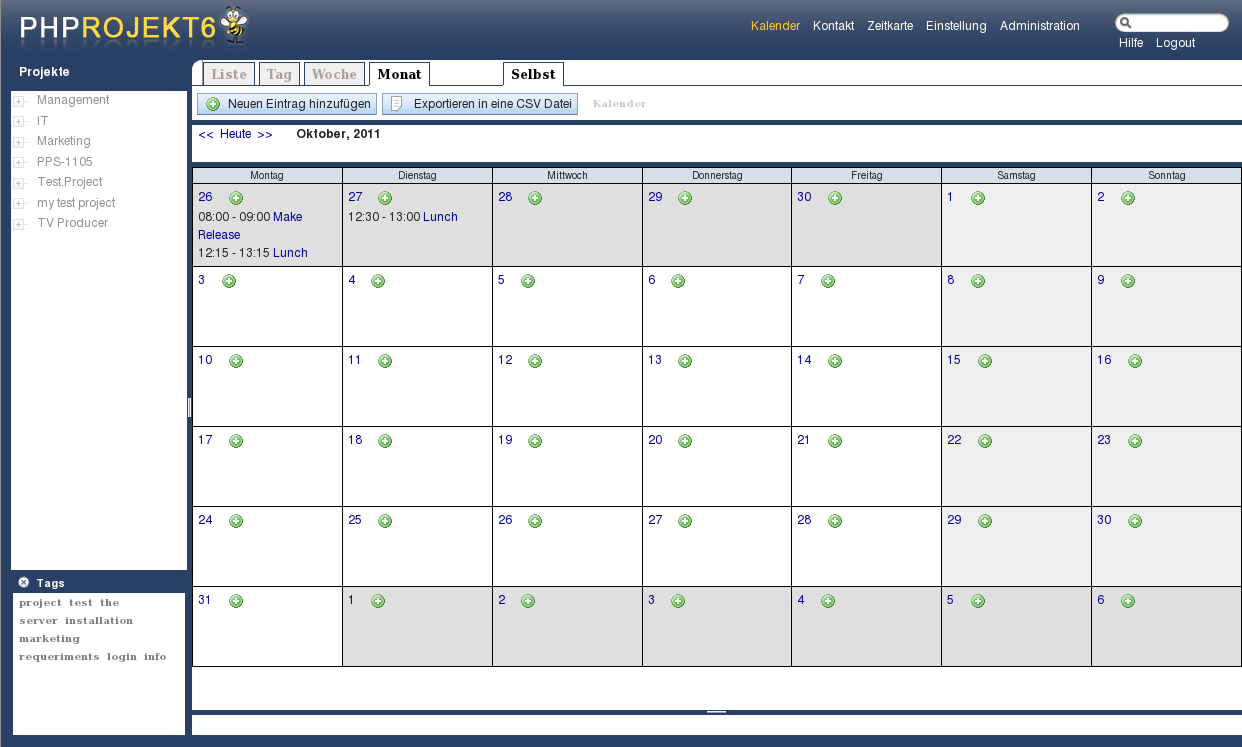
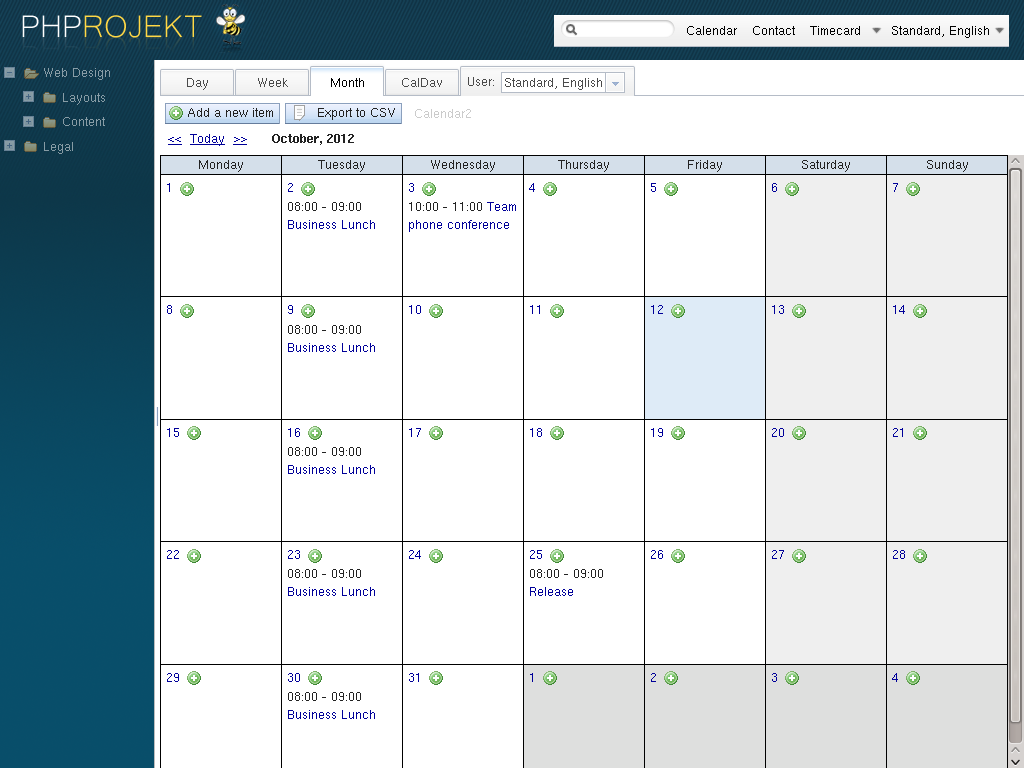
updated screenshots
replace screenshots by newer ones

diff --git a/index.php b/index.php
@@ -134,6 +134,11 @@
                                     <img src="images/screenshots/thumbnails/2.png" alt="The calendar"/>
                                 </a>
                             </div>
+                            <div>
+                                <a href="images/screenshots/3.png" rel="screenshot" title="Custom Modules">
+                                    <img src="images/screenshots/thumbnails/3.png" alt="Custom Modules"/>
+                                </a>
+                            </div>
                         </div>
                     </div>
                     <p>
